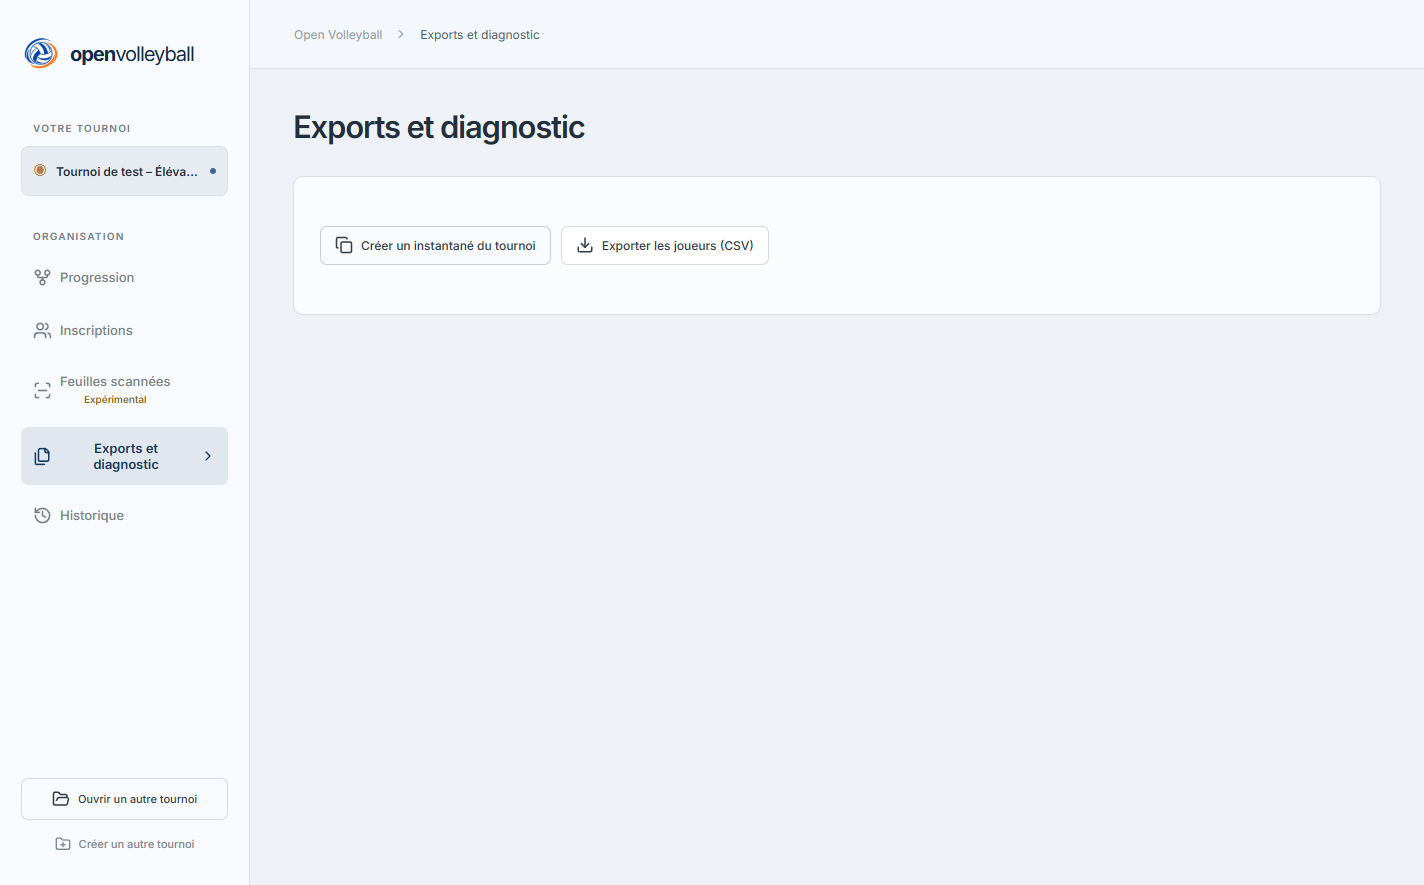
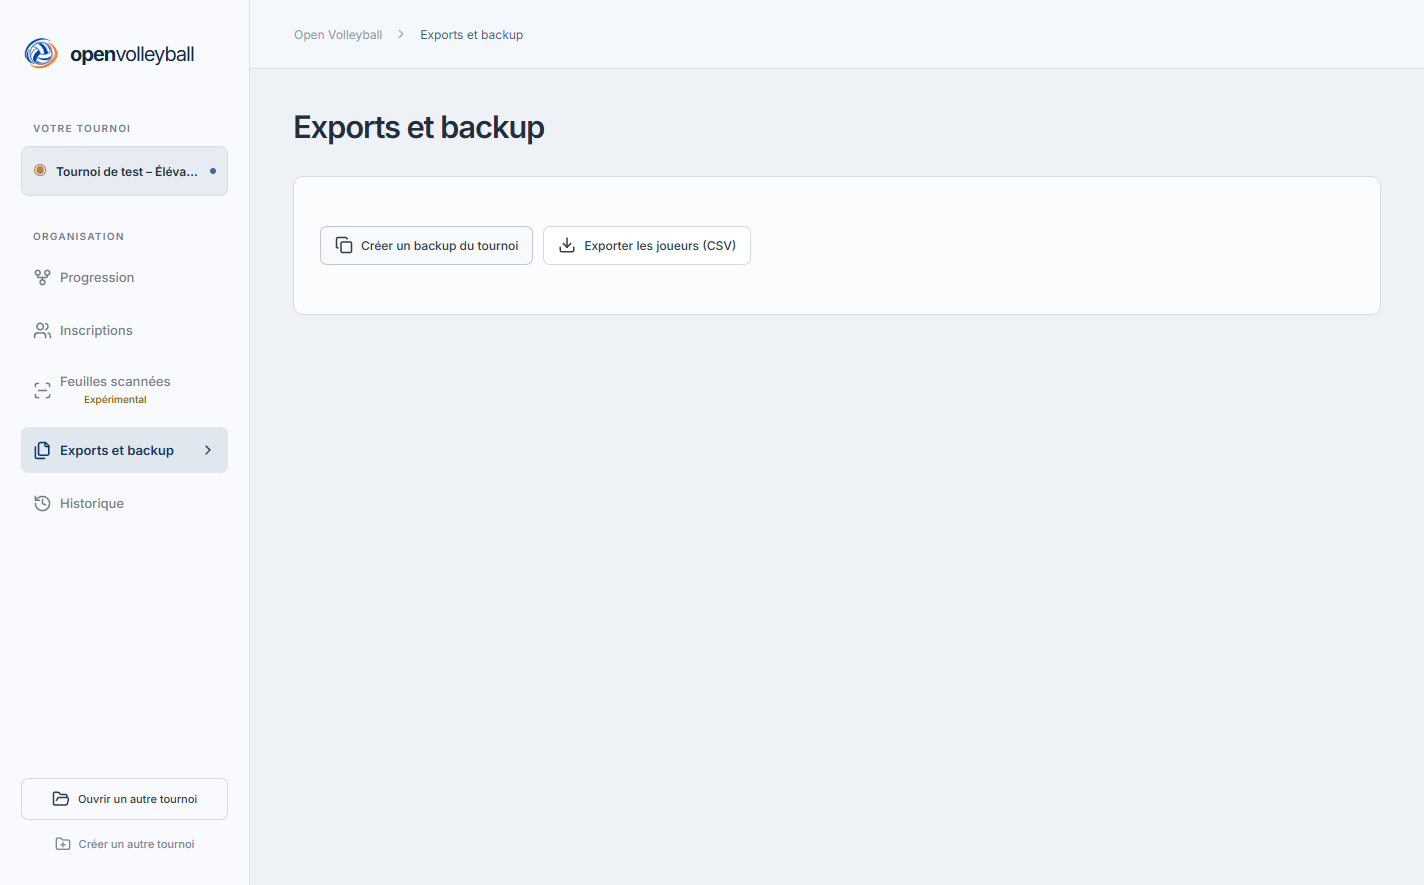
Rename exports page and allow custom backup names

diff --git a/electron/tournament-exports.ts b/electron/tournament-exports.ts
@@ -52,6 +52,7 @@ function within(folder: string, file: string) {
 export async function snapshotTournament(
   store: PackageStore,
   destination: string,
+  backupName?: string,
 ) {
   const source = await fs.realpath(store.folder);
   const parent = await fs.realpath(destination);
@@ -63,13 +64,24 @@ export async function snapshotTournament(
     !within(source, parent),
     "Choisissez une destination en dehors du dossier du tournoi.",
   );
+  if (backupName !== undefined)
+    check(
+      !!backupName.trim() &&
+        backupName === backupName.trim() &&
+        !/[<>:"/\\|?*\x00-\x1f]/.test(backupName) &&
+        ![".", ".."].includes(backupName),
+      "Choisissez un nom de backup valide.",
+    );
   const staging = await fs.mkdtemp(
     path.join(parent, ".openvolleyball-snapshot-"),
   );
   const stamp = new Date().toISOString().replace(/[:.]/g, "-");
+  const name =
+    backupName ??
+    `${exportStem(store.current.name)} - backup ${stamp}-${path.basename(staging).slice(-6)}`;
   const target = path.join(
     parent,
-    `${exportStem(store.current.name)} - instantané ${stamp}-${path.basename(staging).slice(-6)}.openvolley`,
+    name.toLowerCase().endsWith(".openvolley") ? name : name + ".openvolley",
   );
   check(
     path.dirname(staging) === parent && path.dirname(target) === parent,
@@ -84,7 +96,7 @@ export async function snapshotTournament(
         continue;
       check(
         !entry.isSymbolicLink(),
-        "Le dossier contient un lien symbolique. Remplacez-le par ses fichiers avant de créer l’instantané.",
+        "Le dossier contient un lien symbolique. Remplacez-le par ses fichiers avant de créer le backup.",
       );
       const input = path.join(from, entry.name),
         output = path.join(to, entry.name);
@@ -101,6 +113,13 @@ export async function snapshotTournament(
     }
   }
   try {
+    check(
+      !(await fs.lstat(target).catch((error: NodeJS.ErrnoException) => {
+        if (error.code === "ENOENT") return null;
+        throw error;
+      })),
+      "Un backup ou un fichier de ce nom existe déjà. Choisissez un autre nom.",
+    );
     await copyFolder(source, staging, true);
     const raw = encode(store.current);
     decode(raw);
@@ -116,11 +135,11 @@ export async function snapshotTournament(
         "Référence de fichier invalide dans le tournoi.",
       );
       await fs.access(resolved).catch(() => {
-        throw Error(`Instantané impossible : fichier manquant (${file}).`);
+        throw Error(`Backup impossible : fichier manquant (${file}).`);
       });
     }
     await atomicWrite(path.join(staging, "tournament.json"), raw);
-    // The destination has a random suffix; never merge with an existing folder.
+    // Never merge with or overwrite an existing backup, including a chosen name.
     check(
       !(await fs.stat(target).catch(() => null)),
       "Cette destination existe déjà.",

diff --git a/tests/e2e/app.spec.ts b/tests/e2e/app.spec.ts
@@ -937,14 +937,17 @@ test("Exports page contains only snapshot and player CSV actions; dialogs cancel
   expect(opened.ok).toBe(true);
   await page.reload();
   await page
-    .getByRole("button", { name: "Exports et diagnostic", exact: true })
+    .getByRole("button", { name: "Exports et backup", exact: true })
     .click();
+  await expect(
+    page.getByRole("heading", { name: "Exports et backup", exact: true }),
+  ).toBeVisible();
   await expect(page.locator(".content button")).toHaveCount(2);
   await expect(page.locator(".content table, .content .stats-row")).toHaveCount(
     0,
   );
   const snapshot = page.getByRole("button", {
-    name: "Créer un instantané du tournoi",
+    name: "Créer un backup du tournoi",
     exact: true,
   });
   const csvButton = page.getByRole("button", {
@@ -986,21 +989,22 @@ test("Exports page contains only snapshot and player CSV actions; dialogs cancel
   expect(csvDialog.defaultPath).toMatch(/joueurs\.csv$/);
   expect(csvDialog.filters[0].extensions).toEqual(["csv"]);
   await dismiss();
-  await app.evaluate(({ dialog }, folder) => {
-    dialog.showOpenDialog = async (...args: unknown[]) => {
+  const copy = path.join(output, "Avant les finales – été.openvolley");
+  await app.evaluate(({ dialog }, target) => {
+    dialog.showSaveDialog = async (...args: unknown[]) => {
       (globalThis as any).snapshotDialog = args.at(-1);
-      return { canceled: false, filePaths: [folder] };
+      return { canceled: false, filePath: target };
     };
-  }, output);
+  }, copy);
   await snapshot.click();
-  await expect(page.getByText(/Instantané créé :/)).toBeVisible();
-  const copied = (await fs.readdir(output)).find((name) =>
-    name.endsWith(".openvolley"),
-  )!;
-  const copy = path.join(output, copied);
+  await expect(page.getByText(/Backup créé :/)).toBeVisible();
+  expect(await fs.readdir(output)).toContain(
+    "Avant les finales – été.openvolley",
+  );
   expect(
-    (await app.evaluate(() => (globalThis as any).snapshotDialog)).properties,
-  ).toContain("openDirectory");
+    (await app.evaluate(() => (globalThis as any).snapshotDialog)).filters[0]
+      .extensions,
+  ).toEqual(["openvolley"]);
   expect(
     await fs.access(path.join(copy, ".openvolleyball.lock")).then(
       () => true,
@@ -1022,6 +1026,9 @@ test("Exports page contains only snapshot and player CSV actions; dialogs cancel
     expect(await fs.readFile(path.join(copy, d.file))).toEqual(
       await fs.readFile(path.join(folder, d.file)),
     );
+  await dismiss();
+  await snapshot.click();
+  await expect(page.getByRole("alert")).toContainText("existe déjà");
   await dismiss();
   await page.screenshot({
     path: "docs/screenshots/exports.png",

diff --git a/tests/tournament-exports.test.ts b/tests/tournament-exports.test.ts
@@ -97,7 +97,12 @@ it("creates an independently restorable full snapshot, with unchanged IDs, resul
   try {
     const original = await inventory(f.source),
       state = structuredClone(f.store.current);
-    const copy = await snapshotTournament(f.store, f.destination);
+    const copy = await snapshotTournament(
+      f.store,
+      f.destination,
+      "Avant les finales – été",
+    );
+    expect(path.basename(copy)).toBe("Avant les finales – été.openvolley");
     expect(path.extname(copy)).toBe(".openvolley");
     expect(await inventory(copy)).toEqual(original);
     expect(
@@ -115,6 +120,21 @@ it("creates an independently restorable full snapshot, with unchanged IDs, resul
     });
     expect(f.store.current).toEqual(state);
     expect(await inventory(f.source)).toEqual(original);
+    const savedCopy = await fs.readFile(path.join(copy, "tournament.json"));
+    await expect(
+      snapshotTournament(
+        f.store,
+        f.destination,
+        "Avant les finales – été.openvolley",
+      ),
+    ).rejects.toThrow(/existe déjà/);
+    expect(await fs.readFile(path.join(copy, "tournament.json"))).toEqual(
+      savedCopy,
+    );
+    await expect(
+      snapshotTournament(f.store, f.destination, "../escape"),
+    ).rejects.toThrow(/nom de backup/);
+    expect(await fs.readdir(f.destination)).toEqual([path.basename(copy)]);
     const second = await snapshotTournament(f.store, f.destination);
     expect(second).not.toBe(copy);
     expect(await inventory(second)).toEqual(original);

diff --git a/electron/main.ts b/electron/main.ts
@@ -478,12 +478,29 @@ async function handle(method: string, a: any) {
     }
     case "snapshot-tournament": {
       const store = requireActive(a.packageId);
-      const selection = await dialog.showOpenDialog(win, {
-        title: "Choisir le dossier de destination de l’instantané",
-        properties: ["openDirectory", "createDirectory"],
+      const selection = await dialog.showSaveDialog(win, {
+        title: "Créer un backup du tournoi",
+        buttonLabel: "Créer le backup",
+        defaultPath: path.join(
+          app.getPath("documents"),
+          `${exportStem(store.current.name)} - backup ${new Date().toISOString().slice(0, 10)}.openvolley`,
+        ),
+        filters: [
+          {
+            name: "Dossier de tournoi Open Volleyball",
+            extensions: ["openvolley"],
+          },
+        ],
+        properties: ["createDirectory", "showOverwriteConfirmation"],
       });
-      if (selection.canceled) return null;
-      return { path: await snapshotTournament(store, selection.filePaths[0]) };
+      if (selection.canceled || !selection.filePath) return null;
+      return {
+        path: await snapshotTournament(
+          store,
+          path.dirname(selection.filePath),
+          path.basename(selection.filePath),
+        ),
+      };
     }
     case "export-players": {
       const store = requireActive(a.packageId);

diff --git a/src/ui/Utilities.tsx b/src/ui/Utilities.tsx
@@ -15,7 +15,7 @@ export function DocumentsView() {
       if (result)
         notify(
           method === "snapshot-tournament"
-            ? `Instantané créé : ${result.path}`
+            ? `Backup créé : ${result.path}`
             : `${result.count} joueurs exportés : ${result.path}`,
         );
     } catch (e) {
@@ -34,7 +34,7 @@ export function DocumentsView() {
           <Copy size={18} />
           {working === "snapshot-tournament"
             ? "Copie du tournoi…"
-            : "Créer un instantané du tournoi"}
+            : "Créer un backup du tournoi"}
         </button>
         <button
           disabled={busy || !!working}

diff --git a/src/ui/App.tsx b/src/ui/App.tsx
@@ -154,7 +154,7 @@ export function App() {
     { id: "progression", label: "Progression", icon: GitFork },
     { id: "registration", label: "Inscriptions", icon: Users },
     { id: "scans", label: "Feuilles scannées", icon: ScanLine },
-    { id: "documents", label: "Exports et diagnostic", icon: Files },
+    { id: "documents", label: "Exports et backup", icon: Files },
     { id: "history", label: "Historique", icon: History },
   ];
   const t = session?.tournament;

diff --git a/electron/phase-print.ts b/electron/phase-print.ts
@@ -20,7 +20,7 @@ export function phaseDocuments(t: Tournament, phaseId: string): Document[] {
     );
     check(
       document,
-      "Une feuille est absente. Utilisez « Réparer les feuilles manquantes » dans Exports et diagnostic.",
+      "Une feuille est absente. Fermez puis rouvrez ce tournoi pour actualiser ses feuilles de match et de groupe.",
     );
     return document;
   });

diff --git a/docs/GUIDE.md b/docs/GUIDE.md
@@ -35,9 +35,9 @@ L’impression prépare toutes les pages dans une vue dédiée avant d’ouvrir 
 
 - Le crayon d’une rencontre ouvre une correction explicite et annonce ses conséquences. Les résultats dépendants sont annulés ; leurs feuilles sont actualisées. Les descendants d’une phase de groupes corrigée sont archivés et retirés du parcours actif pour être recréés volontairement.
 - **Ouvrir un autre tournoi** conserve le tournoi actif si le choix est annulé ou invalide. Une saisie incomplète doit être corrigée ou abandonnée avant changement/fermeture.
-- **Exports et diagnostic** contient uniquement deux boutons. **Créer un instantané du tournoi** demande un dossier de destination, puis y crée une copie datée `.openvolley` : équipes, joueurs, résultats, progression, feuilles PDF, scans et historique. Le tournoi actif reste ouvert et inchangé. Pour reprendre l’instantané, utiliser **Ouvrir un autre tournoi** et sélectionner son dossier complet.
+- **Exports et backup** contient uniquement deux boutons. **Créer un backup du tournoi** demande le nom et l’emplacement du backup, puis y crée un dossier `.openvolley` : équipes, joueurs, résultats, progression, feuilles PDF, scans et historique. Le tournoi actif reste ouvert et inchangé. Pour reprendre le backup, utiliser **Ouvrir un autre tournoi** et sélectionner son dossier complet.
 - **Exporter les joueurs (CSV)** demande le nom et l’emplacement du fichier. Il contient tous les joueurs des deux catégories : nom du joueur, nom de l’équipe, niveau N/R/D/U, e-mail, club. Le CSV utilise UTF-8 avec accents, séparateur point-virgule et champs entre guillemets. Il ne modifie pas le tournoi.
-- Fermez le tournoi avant de déplacer manuellement tout son dossier `.openvolley`. Pour une copie pendant qu’il est ouvert, utilisez le bouton d’instantané. Sélectionnez le dossier complet pour le rouvrir, pas seulement `tournament.json`.
+- Fermez le tournoi avant de déplacer manuellement tout son dossier `.openvolley`. Pour une copie pendant qu’il est ouvert, utilisez le bouton de backup. Sélectionnez le dossier complet pour le rouvrir, pas seulement `tournament.json`.
 - Les tournois de la version 1.0 restent lisibles. Les résultats et répartitions existants sont conservés. Le nouveau classement fixe s’applique aux vues et aux prochaines décisions. Les feuilles sont actualisées à l’ouverture ; les anciens scores joués avec un écart d’un point restent historiques, mais toute nouvelle saisie ou correction exige deux points.
 
 Avant le tournoi, imprimez une feuille sur le matériel du site et gardez une copie externe du tournoi fermé.

diff --git a/docs/V2-OFFLINE.md b/docs/V2-OFFLINE.md
@@ -1,26 +1,27 @@
 # V2 - Première étape : feuilles scannées, entièrement hors ligne
 
-Version `2.0.0-alpha.8`. Cette préversion ajoute un parcours utilisable de bout en
+Version `2.0.0-alpha.9`. Cette préversion ajoute un parcours utilisable de bout en
 bout : impression des nouvelles feuilles, import de scans, lecture locale des
 chiffres, vérification et enregistrement des résultats. Aucun service cloud,
 compte, clé API, téléchargement de modèle au lancement ou connexion Internet.
 
 ## Exporter et conserver un tournoi
 
-**Exports et diagnostic** propose uniquement :
+**Exports et backup** propose uniquement :
 
-- **Créer un instantané du tournoi** : choisir un dossier de destination. Une copie
-  datée `.openvolley` y est créée, avec tous les résultats, équipes, PDF, scans,
+- **Créer un backup du tournoi** : choisir le nom et l’emplacement dans la fenêtre
+  d’enregistrement. Un dossier `.openvolley` portant ce nom est créé, avec tous les
+  résultats, équipes, PDF, scans,
   formulaires, archives et historique. Le verrou de la session n’est pas copié.
-  L’original reste inchangé. Pour reprendre cet état, ouvrir le dossier de
-  l’instantané avec **Ouvrir un autre tournoi**. Choisir une destination extérieure
+  L’original reste inchangé. Pour reprendre cet état, ouvrir le dossier du
+  backup avec **Ouvrir un autre tournoi**. Choisir une destination extérieure
   au dossier du tournoi actif ; une copie incomplète n’est jamais publiée.
 - **Exporter les joueurs (CSV)** : choisir l’emplacement et le nom du fichier CSV.
   Colonnes : nom du joueur, nom de l’équipe, niveau N/R/D/U, e-mail, club. Toutes les
   catégories et les joueurs des équipes retirées sont inclus. Encodage UTF-8 avec
   marqueur BOM, séparateur point-virgule ; accents et champs facultatifs conservés.
 
-Les autres outils et listes de cette page sont retirés. Alpha.8 conserve les
+Les autres outils et listes de cette page sont retirés. Alpha.9 conserve les
 modèles, le statut expérimental et les exports d’inscriptions relues d’alpha.7.
 Le pack de lecteur avancé déjà installé reste compatible ; inutile de le réinstaller.
 

diff --git a/docs/ACCEPTANCE.md b/docs/ACCEPTANCE.md
@@ -2,6 +2,24 @@
 
 The application was built from the supplied specification against an empty repository. Automated tests use disposable synthetic data; the three original example tournaments remain unchanged. Alpha.2 also uses a separate read-only diagnostic of locally approved scans, with copies kept outside version control.
 
+## Named backups: 2.0.0-alpha.9
+
+- **76 unit tests pass.** Backup tests additionally check a chosen Unicode name,
+  automatic `.openvolley` extension, rejection of invalid names, and preservation
+  of an existing backup when the same name is chosen again.
+- The targeted **packaged export workflow passes** with the renamed Exports et
+  backup page and Créer un backup du tournoi button. It exercises the save dialog,
+  exact custom backup folder name, cancellation, duplicate-name error, CSV export
+  and reopening the backup with unchanged tournament state.
+- Existing backups are never overwritten or merged. Their folder name is chosen
+  by the user; the tournament name and identifiers inside remain unchanged.
+- Scanning and recognition models remain unchanged. The full 19-workflow packaged
+  regression suite passed in alpha.8; alpha.9 reruns the affected export workflow.
+
+Manual check: click Créer un backup du tournoi, edit the suggested name, choose
+its location, and reopen the resulting `.openvolley` folder. Try the same name
+again and confirm the existing copy is retained.
+
 ## V2 tournament snapshots and player CSV: 2.0.0-alpha.8
 
 - **76 unit/domain/storage/model/PDF tests and 19 packaged Electron workflows

diff --git a/README.md b/README.md
@@ -1,10 +1,14 @@
 # Open Volleyball
 
-La branche `feature/offline-scan-inbox` contient la préversion **2.0.0-alpha.8** :
+La branche `feature/offline-scan-inbox` contient la préversion **2.0.0-alpha.9** :
 import de feuilles scannées, QR codes, lecture locale des chiffres et validation
 avec l’image. Aucun accès Internet requis. Les inscriptions manuscrites sont
 transcrites localement puis relues. Les téléphones restent une prochaine étape.
 [Guide et checklist v2](docs/V2-OFFLINE.md).
+
+Alpha.9 permet de choisir le nom et l’emplacement du backup dans une fenêtre
+d’enregistrement. La page s’appelle **Exports et backup** et le bouton
+**Créer un backup du tournoi**. Un backup existant n’est jamais remplacé.
 
 Alpha.8 simplifie **Exports et diagnostic** à deux boutons : **Créer un instantané
 du tournoi**, copie complète et réouvrable dans le dossier choisi, et **Exporter

diff --git a/docs/CHANGELOG.md b/docs/CHANGELOG.md
@@ -1,3 +1,12 @@
+# Version 2.0.0-alpha.9
+
+- Page renommée **Exports et backup** et bouton **Créer un backup du tournoi**.
+- Choix du nom et de l’emplacement du backup dans la fenêtre d’enregistrement.
+  Un dossier `.openvolley` portant le nom choisi est créé, sans renommer le tournoi
+  dans ses données. Extension ajoutée si nécessaire, sans duplication.
+- Un backup existant est conservé : choisir un autre nom au lieu de le remplacer.
+  Exports CSV, résultats et reconnaissance manuscrite inchangés.
+
 # Version 2.0.0-alpha.8
 
 - Exports et diagnostic réduit à deux actions, sans statistiques, liste de PDF,
